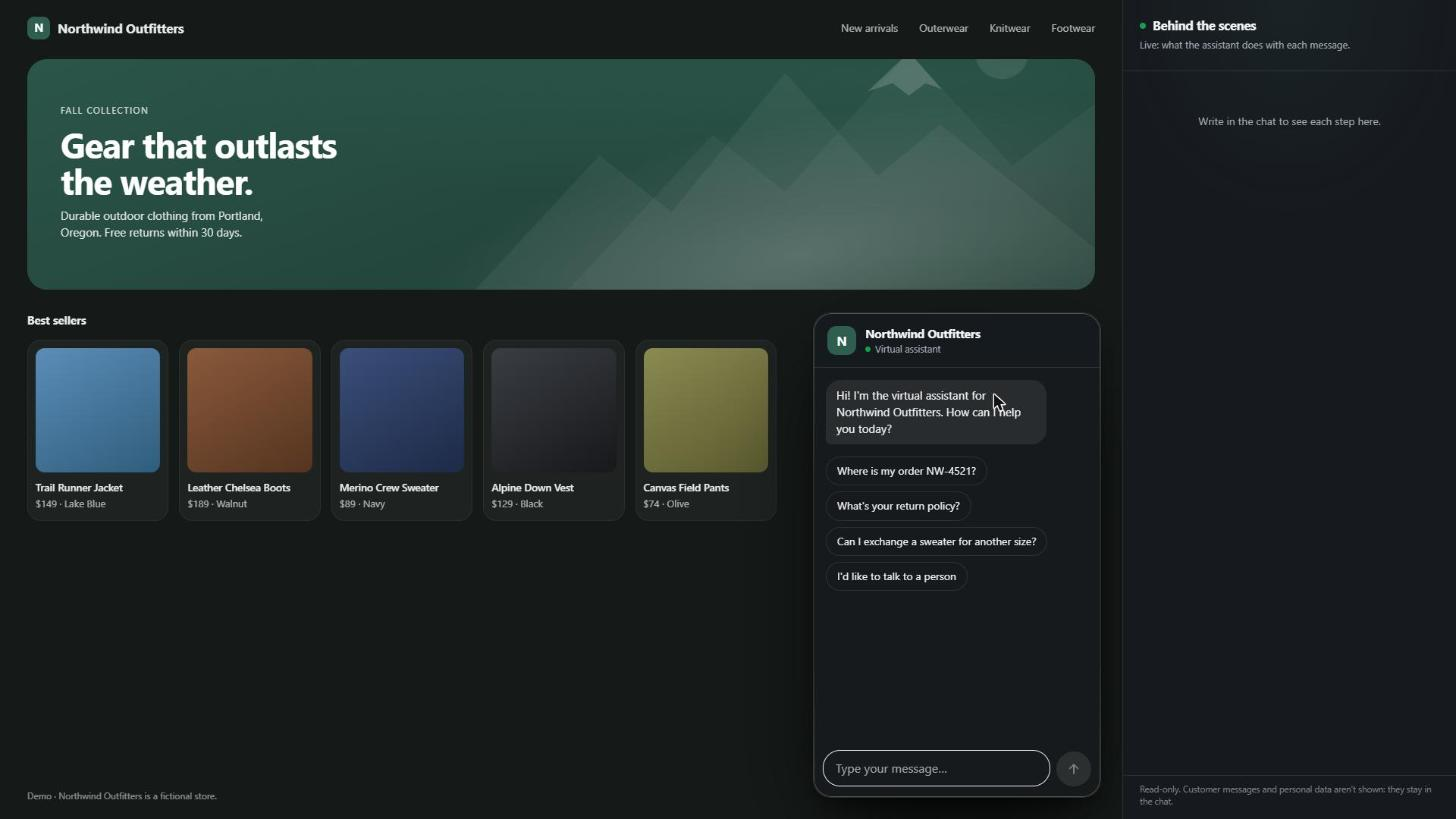
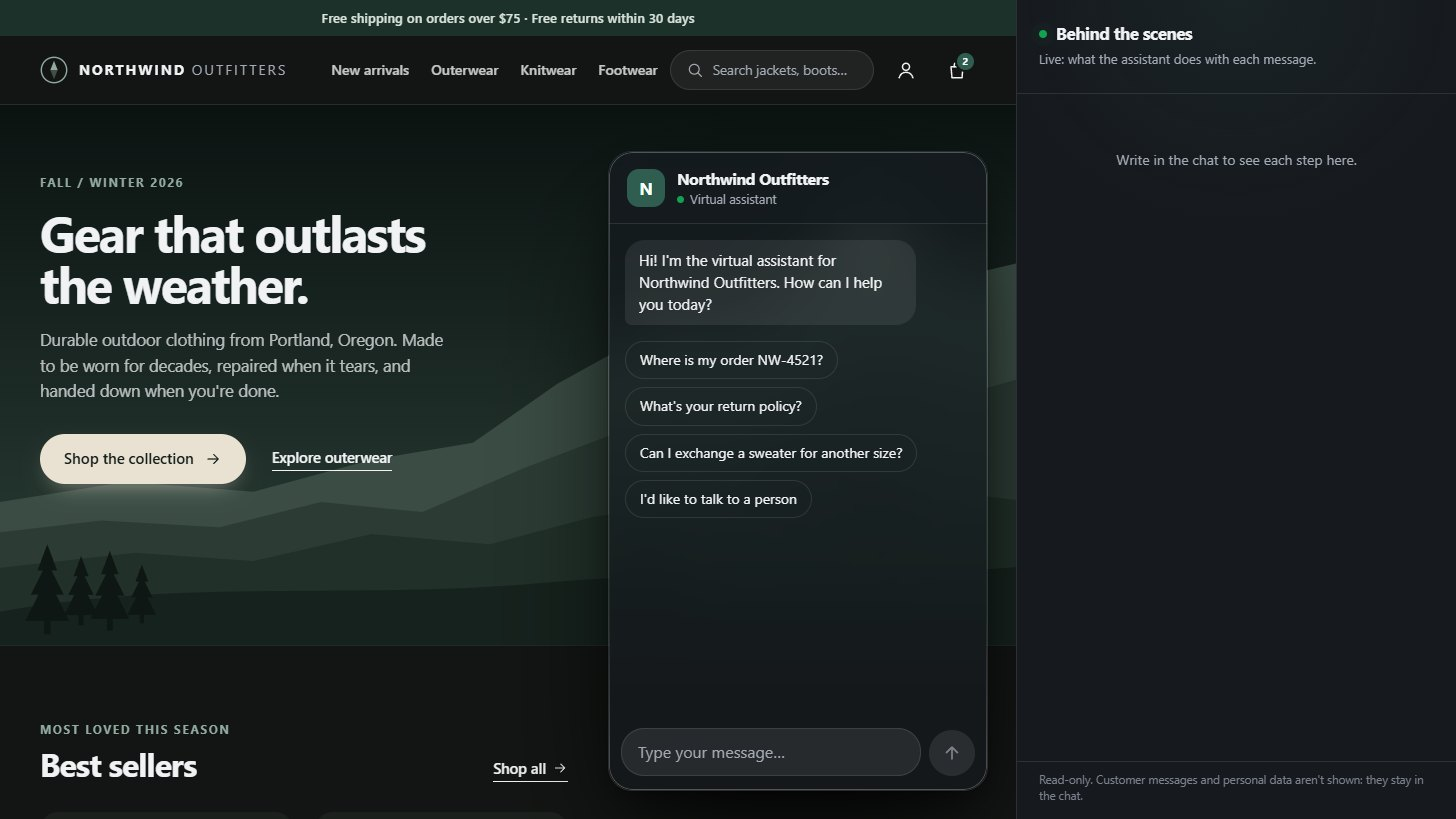
Actualiza el guion de la demo en inglés con el email de confirmación y nuevas capturas.

diff --git a/docs/demo-en.md b/docs/demo-en.md
@@ -2,33 +2,38 @@
 
 El video muestra a **Northwind Outfitters**, una tienda ficticia de ropa outdoor. A la izquierda están su sitio y su chat; a la derecha, la vista **"detrás de escena"**, con lo que hace el asistente en cada mensaje (decisión 041).
 
-La historia: una clienta con un pedido atrasado se enoja, pide un descuento fuera de la política, elige la alternativa y pide un reembolso grande, que aprueba una persona. Todo es de demo: emails `@example.com` y teléfonos 555-01xx. La única excepción es el email al que llega el código, si lo configurás en Render.
+La historia: una clienta con un pedido atrasado se verifica con un código que le llega al celular, se enoja y pide un descuento fuera de la política. Elige la alternativa y pide un reembolso grande. Lo aprueba una persona en el panel, y a la clienta le llega el email de confirmación. Todo es de demo: emails `@example.com` y teléfonos 555-01xx. La única excepción es el email al que llegan el código y la confirmación, si lo configurás en Render.
 
-Probado de punta a punta en Chrome el 13 de noviembre de 2026, con el modelo de siempre (`openai/gpt-oss-20b` en Groq). Las capturas están en `docs/img/demo-en/`.
+Recorrido completo el 16 de noviembre de 2026 con el modelo simulado de los tests, en Chrome headless a 1456×819, tema oscuro (el indicador y la fila Why, también en claro). Las capturas están en `docs/img/demo-en/`. Con Groq las respuestas cambian un poco de redacción, pero los pasos son los mismos.
 
 ## Antes de grabar
 
-### En Render: el código a tu email (decisión 043)
+### En Render: el código y la confirmación a tu email (decisiones 043 y 046)
 
 En el servicio de Render → **Environment** → **Add Environment Variable**:
 
 | Variable | Valor | Para qué |
 |---|---|---|
 | `NORTHWIND_DEMO_CUSTOMER_EMAIL` | tu email real | Los pedidos del guion (NW-4521 y NW-4528) quedan asociados a ese email. `emily@example.com` sigue andando. |
-| `RESEND_API_KEY` | la clave de Resend (`re_…`) | Envía el código por email. Cómo crearla: `docs/render.md`, "Enviar el código de verificación por email". |
+| `RESEND_API_KEY` | la clave de Resend (`re_…`) | Envía los emails. Cómo crearla: `docs/render.md`, "Enviar el código de verificación por email". |
 | `MAIL_FROM` | `Northwind Outfitters <codes@enterprisedataai.com>` | El remitente, de un dominio verificado en Resend. Con ese nombre, el email parece de la tienda. |
 
 - **Guardar:** **Save Changes**. Render redespliega solo. La asociación se arma con el primer mensaje y otra vez con cada **Reset demo**.
-- **Las tres juntas:** sin `RESEND_API_KEY` y `MAIL_FROM`, el código sale en **Logs** (`[Mailer de consola, no se envió]`). Sin `NORTHWIND_DEMO_CUSTOMER_EMAIL`, solo verifica `emily@example.com`, que no recibe emails.
+- **Las tres juntas:** sin `RESEND_API_KEY` y `MAIL_FROM`, los emails salen en **Logs** (`[Mailer de consola, no se envió]`). Sin `NORTHWIND_DEMO_CUSTOMER_EMAIL`, solo verifica `emily@example.com`, que no recibe emails.
 - **Tu email no va en el repo:** ni en `.env.example`, ni en los docs, ni en los tests. Solo en Render (o en tu `.env` local, que no se sube).
 - **Se ve en el video:** el email se escribe en el chat. Conviene una casilla solo para la demo.
 - **Resend sin dominio verificado:** con `MAIL_FROM=Northwind Outfitters <onboarding@resend.dev>`, Resend solo envía al email de tu cuenta de Resend. Alcanza si es el mismo.
-- **El email:** asunto "Your Northwind Outfitters verification code", el código grande y "It expires in 10 minutes". Si no llega en unos segundos, mirá en spam y en Resend → **Emails**.
+- **Los dos emails:**
+  - **El código:** asunto "Your Northwind Outfitters verification code", el código grande y "It expires in 10 minutes".
+  - **La confirmación:** asunto "Your refund is confirmed – order NW-4528", con el monto, el medio de pago, el plazo y la referencia. Llega al mismo email con el que la clienta se verificó, una sola vez.
+  - Si alguno no llega en unos segundos, mirá en spam y en Resend → **Emails**.
+
+**Las fechas se acomodan solas.** Los pedidos de la API simulada se calculan respecto del día en que arranca la API, y otra vez con cada **Reset demo**. NW-4521 siempre está enviado hace 5 días, con la nueva fecha de entrega en 2. Si grabás el 20 de noviembre, el asistente dice "November 22". No hay que tocar nada.
 
 **Antes de la primera toma:**
 
 1. Abrí la página y mandá un mensaje de prueba.
-2. Después tocá Reset demo.
+2. Después tocá **Reset demo**. Así Casos queda vacío y la solicitud del reembolso aparece arriba de todo.
 
 El plan gratis de Render duerme el servicio a los 15 minutos sin tráfico y tarda cerca de un minuto en despertar. La base de Neon y el primer embedding también tardan más la primera vez (decisión 044).
 
@@ -41,17 +46,17 @@ El plan gratis de Render duerme el servicio a los 15 minutos sin tráfico y tard
 2. **Límite del chat:** en `.env`, `WEB_CHAT_IP_DAILY_LIMIT=200`.
    - El chat permite 30 mensajes por IP cada 24 horas, y un ensayo completo usa 6.
    - Si queda poco, el widget muestra "N messages left". Al llegar a cero, no responde más hasta el día siguiente.
-3. **API:** `make api`. Dejá la terminal a la vista, pero fuera de cuadro: de ahí sale el código de verificación. Buscá la línea `[Mailer de consola, no se envió]`; el email `@example.com` no existe.
+3. **API:** `make api`. Dejá la terminal a la vista, pero fuera de cuadro: de ahí salen el código de verificación y el email de confirmación. Buscá las líneas `[Mailer de consola, no se envió]`; el email `@example.com` no existe.
 4. **Panel:** en una pestaña, `http://localhost:8000/panel`, con el usuario de Northwind.
-   - Casos → **Reset demo**: archiva las conversaciones de prueba y devuelve los pedidos a su estado inicial.
+   - Casos → **Reset demo**: archiva las conversaciones de prueba y devuelve los pedidos a su estado inicial, con las fechas de hoy.
 5. **La página del video:** en otra pestaña, `http://localhost:8000/demo/northwind-outfitters`.
    - Tocá el botón de las dos flechas del chat y después **"Yes, start over"**. El panel de la derecha queda en "Write in the chat to see each step here".
 6. **Ventana:** 1456×819 o más ancha (las capturas son de 1456×819), con el zoom del navegador al 100 %. El modo oscuro del sistema da el aspecto de las capturas.
    - Para grabar en un tema sin cambiar el del sistema: `http://localhost:8000/demo/northwind-outfitters?theme=dark` (o `?theme=light`).
-   - El sitio de la tienda se rediseñó después de estas capturas (decisión 042). Cómo se ve ahora, a 1456×819 y 1920×1080, en claro y oscuro: `docs/img/demo-en/tienda-*.jpg`.
+   - El sitio de la tienda a 1920×1080, en claro y oscuro: `docs/img/demo-en/tienda-*.jpg`.
 7. **Ensayá una vez entera:** la primera respuesta del modelo del día suele tardar más.
 
-**Se graba en tiempo real y se edita.** Con el nivel gratuito de Groq cada respuesta tarda entre 5 y 80 segundos: casi todo es la espera del límite de tokens por minuto. En la edición se cortan las esperas (los tres puntos del chat) y quedan los 90 segundos.
+**Se graba en tiempo real y se edita.** Con el nivel gratuito de Groq cada respuesta tarda entre 5 y 80 segundos: casi todo es la espera del límite de tokens por minuto. Mientras tanto, el chat muestra el indicador **"Thinking…"**: una marca verde que respira y el texto con un brillo que lo recorre. En la edición se dejan uno o dos segundos del indicador y se corta el resto, y quedan los 90 segundos.
 
 **No escribas mientras el asistente responde:** el chat ignora Enter hasta que llega la respuesta (la flecha de enviar está apagada). Esperá a ver la respuesta completa y al panel actualizado. El panel se actualiza cuando termina cada respuesta, no durante.
 
@@ -59,7 +64,7 @@ El plan gratis de Render duerme el servicio a los 15 minutos sin tráfico y tard
 
 Los tiempos son del video ya editado. Lo que se escribe va en inglés, tal cual.
 
-### 0:00–0:08 · Presentación
+### 0:00–0:06 · Presentación
 
 **Qué se ve:** la página entera. A la izquierda, el sitio de Northwind con el chat abierto; a la derecha, "Behind the scenes" vacío.
 
@@ -67,15 +72,22 @@ Los tiempos son del video ya editado. Lo que se escribe va en inglés, tal cual.
 
 ![Inicio](img/demo-en/01-inicio.jpg)
 
-### 0:08–0:28 · Un pedido atrasado, con verificación
+### 0:06–0:24 · Un pedido atrasado, con el código al celular
 
 1. Tocá la sugerencia **"Where is my order NW-4521?"**.
+   - Aparece **"Thinking…"** donde va a estar la respuesta, sin burbuja.
+
+     ![Indicador "Thinking…"](img/demo-en/02-indicador-oscuro.jpg)
+
    - El asistente pide el email de la compra: no da datos de un pedido sin verificar al titular.
 2. Escribí el email de `NORTHWIND_DEMO_CUSTOMER_EMAIL` (sin esa variable, `emily@example.com`). Responde que mandó un código.
-3. Copiá el código de 6 dígitos del email (sin Resend, de la terminal o de Logs en Render) y escribilo.
+
+   ![Código enviado](img/demo-en/03-codigo-enviado.jpg)
+
+3. **Mostrá el celular:** llega "Your Northwind Outfitters verification code". Escribí el código de 6 dígitos (sin Resend, sale en la terminal o en Logs de Render).
 4. **La respuesta:**
    - el pedido está demorado por clima en Denver;
-   - la nueva fecha es el 14 de noviembre;
+   - la nueva fecha es dentro de 2 días (en las capturas, "November 18", grabadas el 16);
    - ofrece dos opciones: un cupón de hasta 10 % o envío express gratis.
 
 **Qué mostrar en el panel:** el mensaje 3 completo.
@@ -86,32 +98,32 @@ Los tiempos son del video ya editado. Lo que se escribe va en inglés, tal cual.
 
 **Qué decir:** *"It verifies the customer first, then checks the real order — and offers the options the policy allows."*
 
-![Pedido atrasado](img/demo-en/02-pedido-atrasado.jpg)
+![Pedido atrasado](img/demo-en/04-pedido-atrasado.jpg)
 
-### 0:28–0:45 · Cliente molesta, pedido fuera de la política
+### 0:24–0:36 · Cliente molesta, pedido fuera de la política
 
 Escribí: **`Honestly, that's frustrating. Can you give me a 25% coupon for order NW-4521?`**
 
 **La respuesta:**
 
-- empieza con empatía ("I'm really sorry you're upset");
+- empieza con una disculpa ("I'm sorry");
 - explica que el tope es 10 %;
 - vuelve a ofrecer el cupón del 10 % o el envío express.
 
 **Qué mostrar en el panel:**
 
-- **Sources:** `discounts_and_coupons`. La negativa sale de la política, no del modelo.
-- **Checks**, si aparece "Rewrote an answer": el control de fundamento rechazó una respuesta sin fuente y el asistente la rehízo.
+- **Coupon** (`percent: 25`) en rojo: **Blocked by the policy guard**, con ✕ en "Up to 10%".
+- "Offered instead: Coupon (up to 10%) · Express shipping".
 
 **Qué decir:** *"It can't be talked into breaking policy: the 10% cap is enforced in code by the policy guard, not by the prompt."*
 
-![Cupón del 25 %](img/demo-en/03-cupon-del-25.jpg)
+![Cupón del 25 %](img/demo-en/05-cupon-del-25.jpg)
 
-### 0:45–0:55 · Elige la alternativa: el asistente actúa
+### 0:36–0:44 · Elige la alternativa: el asistente actúa
 
 Escribí: **`OK, I'll take the free express shipping.`**
 
-**La respuesta:** listo, con el código `EXPRESS-4521`.
+**La respuesta:** listo, con el código `EXPRESS-4521`, válido por 60 días.
 
 **Qué mostrar en el panel:**
 
@@ -120,57 +132,95 @@ Escribí: **`OK, I'll take the free express shipping.`**
 
 **Qué decir:** *"Low-risk actions it simply does — through the same guard, and fully audited."*
 
-![Envío express](img/demo-en/04-envio-express.jpg)
+![Envío express](img/demo-en/06-envio-express.jpg)
 
-### 0:55–1:10 · Un reembolso grande: decide una persona
+### 0:44–0:54 · Un reembolso grande: decide una persona
 
 Escribí: **`Thanks. Also, I'd like a refund for order NW-4528.`**
 
-**La respuesta:** inició el reembolso de USD 213 y queda en revisión de una persona, porque supera los USD 100.
+**La respuesta:** el reembolso de $213 queda en revisión de una persona, porque supera los $100.
 
 **Qué mostrar en el panel:**
 
 - la herramienta **Refund** (`amount: 213`) con la regla **"A person approves over $100"** en ámbar;
-- **Approval:** Waiting for a person;
-- arriba, el caso en **Waiting for approval**.
+- **Approval:** Waiting for a person.
 
 **Qué decir:** *"Money over $100 always goes to a person. No prompt can change that."*
 
-![Reembolso en revisión](img/demo-en/05-reembolso-en-revision.jpg)
+![Reembolso en revisión](img/demo-en/07-reembolso-en-revision.jpg)
 
-### 1:10–1:22 · La persona aprueba desde el panel
+### 0:54–1:08 · La persona aprueba desde el panel
 
-1. Pasá a la pestaña del panel → **Approvals**. Está "Refund · Order NW-4528 · $213".
+1. Pasá a la pestaña del panel → **Cases**. Sin buscarlo se ve:
+   - el contador **1** junto a **Approvals** en el menú;
+   - la fila **Refund · Order NW-4528 · $213** resaltada en ámbar, con **Reject** y **Approve** a la vista.
 
-   ![Aprobaciones](img/demo-en/06-aprobaciones.jpg)
+   ![Aviso en el panel](img/demo-en/08-panel-aviso.jpg)
 
-2. Tocá **Approve**.
+   En **Approvals** está la misma solicitud, también resaltada:
+
+   ![Aprobaciones](img/demo-en/09-panel-aprobaciones.jpg)
+
+2. Tocá **Approve** en la fila. Arriba aparece unos segundos **"✓ Refund approved · confirmation email sent"**, y el contador y el resaltado desaparecen.
+
+   ![Aprobado en el panel](img/demo-en/10-aprobado-en-panel.jpg)
+
 3. Volvé a la página de la demo. En unos segundos:
    - en el chat aparece el mensaje del **Northwind Outfitters team**: "Good news! We approved the refund…";
-   - en el panel, **Approval: Approved by a person** y la regla "Ran in the store's system" en verde.
+   - en el panel, **Approval:** Approved by a person · **Confirmation email sent**.
 
-![Aprobado](img/demo-en/07-aprobado.jpg)
+**Qué decir:** *"One click, and the guard runs it in the store's system."*
 
-### 1:22–1:30 · Cierre
+![Aprobado](img/demo-en/11-aprobado.jpg)
+
+### 1:08–1:20 · El email de confirmación al celular
+
+**Mostrá el celular:** llega "Your refund is confirmed – order NW-4528".
+
+- el monto, grande: **$213**;
+- **Refunded to:** Visa ending in 4242;
+- **When you'll see it:** 5 to 7 business days;
+- **Reference:** R-NW-4528-1.
+
+**Qué decir:** *"And the customer gets the confirmation right away — once, even if someone clicks twice."*
+
+![Email de confirmación](img/demo-en/12-mail-de-confirmacion.jpg)
+
+### 1:20–1:30 · Cierre
 
 **Qué mostrar:** el panel completo, bajando por los mensajes. En cada uno se ven la latencia, el costo y los tokens.
 
 **Texto en pantalla o voz:** *"Every step is verified, guarded and audited — and it costs cents per conversation."* Con Groq gratuito el panel muestra `$0.0000`; con Claude muestra el costo real de cada mensaje.
 
+## En tema claro
+
+El indicador se ve igual en claro, con los colores del tema:
+
+![Indicador en claro](img/demo-en/13-indicador-claro.jpg)
+
 ## Si algo sale distinto
 
-- **El asistente respondió el 25 % sin llamar a la herramienta del cupón.** Es lo más común: lee la política de descuentos y no intenta el 25 %. Si llama a la herramienta, el guardián la frena. El panel muestra entonces **Coupon** con ✕ en "Up to 10%" y "Offered instead: Coupon (up to 10%) · Express shipping". Las dos variantes sirven para el video.
-- **"I'm passing you to a member of our team"** en lugar de una respuesta: el panel muestra el motivo en la fila **Why** del mensaje, en una línea (decisión 045).
+- **El asistente respondió el 25 % sin llamar a la herramienta del cupón.** Pasa con Groq: lee la política de descuentos y no intenta el 25 %. El panel muestra entonces **Sources:** `discounts_and_coupons`. Si llama a la herramienta, el guardián la frena, como en la captura. Las dos variantes sirven para el video.
+- **"I'm passing you to a member of our team"** en lugar de una respuesta: el panel muestra el motivo en la fila **Why** del mensaje, en una línea (decisión 045). Por ejemplo, si se pide una persona: "The customer asked to talk to a person".
+
+  ![Fila Why](img/demo-en/14-fila-why.jpg)
+
   - "Answer blocked by grounding check: …": el modelo falló dos veces un control.
-  - "The agent chose to hand off…": el modelo eligió derivar. Si una herramienta ya había devuelto los datos, antes se le pidió una vez que respondiera con ellos ("Reconsidered a handoff" en **Checks**). Pasó el 16/11 con NW-4521 y es lo que arregla la decisión 045.
+  - "The agent chose to hand off…": el modelo eligió derivar. Si una herramienta ya había devuelto los datos, antes se le pidió una vez que respondiera con ellos ("Reconsidered a handoff" en **Checks**).
   - En cualquier caso: reiniciá la demo (pasos 4 y 5 de "Antes de grabar") y repetí.
 - **"We couldn't reach the assistant" o "We ran into a problem":** se agotó la cuota de Groq o el límite de mensajes. Esperá un minuto o revisá `WEB_CHAT_IP_DAILY_LIMIT`.
 - **El código no aparece en la terminal:** buscá `[Mailer de consola` en la salida de `make api`. Vence a los 10 minutos.
-- **El código no llega al email:**
+- **El código o la confirmación no llegan al email:**
   - Revisá las tres variables de "En Render".
   - Mirá Resend → **Emails** y la carpeta de spam.
   - Si en los Logs aparece `[Mailer de consola`, faltan `RESEND_API_KEY` o `MAIL_FROM`.
   - Si el asistente responde "We couldn't send you the code", Resend rechazó el envío: el motivo queda en los Logs.
+  - Si al aprobar el panel dice "Refund approved · the confirmation email couldn't be sent", el reembolso quedó aprobado igual. El motivo está en el detalle del caso y en **Metrics** (`MailError`).
+  - Si dice solo "Refund approved", la clienta no se verificó por email en esa conversación: no hay a quién mandarlo.
 - **Una respuesta tarda mucho más que otra:** casi siempre es la espera por el límite de tokens por minuto de Groq. Se ve como "Waiting for Groq" en el panel y en la línea `[Latencia]` de los logs. Dejá 30 a 40 segundos entre mensajes o cortá la espera en la edición.
 - **El panel de la derecha da 404 o queda vacío:** la vista está apagada (Panel → Settings → Behind the scenes → Activate), o el chat se abrió en otra pestaña con otra sesión. Usá el chat de la misma página.
 - **Los pedidos ya tienen el envío express o el reembolso de un ensayo anterior:** Reset demo en el panel. Devuelve los pedidos a su estado inicial.
+
+## Cómo se recorrió el guion para las capturas
+
+Con el modelo simulado de los tests (sin llamadas a Groq), la API local y Chrome headless a 1456×819. Los emails se guardaron en archivos y el de confirmación se abrió en el navegador para la captura 12. Las conversaciones del recorrido se archivaron al terminar.
